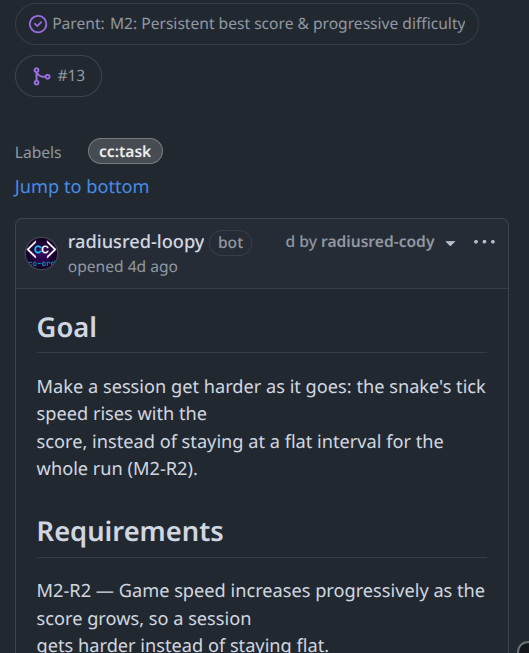
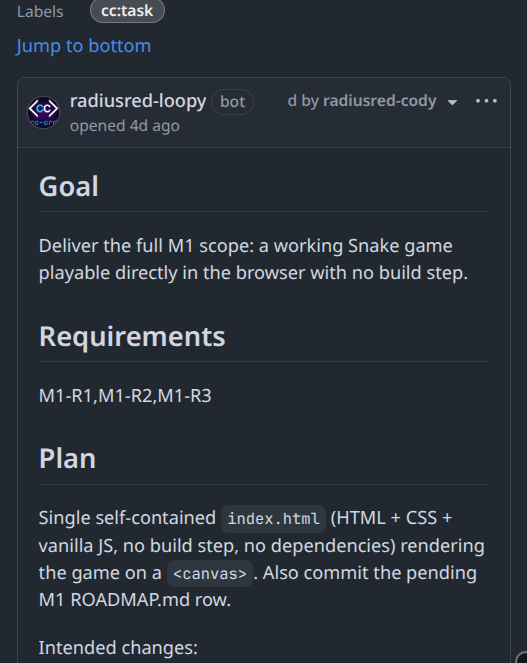
style: ease the step grabs and run the fade to the description; retake task (#4)
The task grab is retaken with the Plan heading in frame (527x663) and
re-anchored on it at 64%. The image filter eases from saturate(0.35)
contrast(0.75) brightness(0.85) to saturate(0.7) contrast(0.9)
brightness(0.9) so each grab is recognisable, and the fade runs lower:
15% ink at the top, 60% at 5.6rem, 85% at 7.2rem where the heading
starts, solid by 8.8rem where the description begins (4.2, 5.6 and 7.2rem
on phones). The heading sits over the tail of the fade at 9:1 or better;
the description keeps its plain-ink contrast. The test pins the new
filter and the solid stop. Third refinement of change 10 on #4.

diff --git a/docs/stylesheets/extra.css b/docs/stylesheets/extra.css
@@ -430,11 +430,12 @@ h1,h2,h3 {
    strip visible above the fade shows the grab's distinguishing feature at
    any card width (background-position percentages would land differently
    on desktop and phone, since the overflow differs). Saturation and
-   contrast are pulled down; ::after lays a vertical gradient over it,
-   mostly clear at the top and the solid ink ground by the point the
-   heading starts, so the wording sits on a plain surface and the grab
-   reads as a hint above it. Light type in both schemes: body text on the
-   ink is 16:1, the muted lines 9:1. The band is shorter on phones so four
+   contrast are eased a little so the grab stays recognisable; ::after lays
+   a vertical gradient over it, mostly clear at the top and the solid ink
+   ground by the point the description paragraph starts. The heading (bold,
+   with the accent number and glyph) sits over the tail of the fade, at 85%
+   ink or more (9:1 at worst); the description sits on plain ink (16:1, the
+   muted lines 9:1) in both schemes. The band is shorter on phones so four
    cards do not run long. */
 .cc-step--bg {
   --md-typeset-color: #f2eefaf2;
@@ -457,7 +458,7 @@ h1,h2,h3 {
   width: 100%;
   aspect-ratio: var(--cc-step-bg-ratio, 1);
   background: var(--cc-step-bg, none) center top / 100% auto no-repeat;
-  filter: saturate(0.35) contrast(0.75) brightness(0.85);
+  filter: saturate(0.7) contrast(0.9) brightness(0.9);
   transform: translateY(calc(-1 * var(--cc-step-bg-y, 0%)));
 }
 
@@ -465,7 +466,7 @@ h1,h2,h3 {
   content: "";
   position: absolute;
   inset: 0;
-  background: linear-gradient(180deg, #0a001226 0, #0a0012b3 4.4rem, var(--cc-ink) 6.8rem);
+  background: linear-gradient(180deg, #0a001226 0, #0a001299 5.6rem, #0a0012d9 7.2rem, var(--cc-ink) 8.8rem);
 }
 
 .cc-step--bg > * {
@@ -478,7 +479,7 @@ h1,h2,h3 {
     padding-top: 5.6rem;
   }
   .cc-step--bg::after {
-    background: linear-gradient(180deg, #0a001226 0, #0a0012b3 3.4rem, var(--cc-ink) 5.2rem);
+    background: linear-gradient(180deg, #0a001226 0, #0a001299 4.2rem, #0a0012d9 5.6rem, var(--cc-ink) 7.2rem);
   }
 }
 

diff --git a/tests/test_site_build.py b/tests/test_site_build.py
@@ -29,9 +29,9 @@ STEP_CODE_MAX = 42
 CREW_ROLES = ("implementer", "reviewer", "qa", "doc-synthesizer", "coordinator")
 # One grab per How-it-works step, in order, with the anchor (a share of the
 # image's height) that puts its distinguishing feature in the strip above
-# the fade: the Requirements list, the parent-issue and branch pills, the
-# Merged badge and merged-by line, the document title.
-STEP_IMAGES = (("milestone", "62%"), ("task", "2%"), ("pr", "21%"), ("record", "0%"))
+# the fade: the Requirements list, the Plan heading, the Merged badge and
+# merged-by line, the document title.
+STEP_IMAGES = (("milestone", "62%"), ("task", "64%"), ("pr", "21%"), ("record", "0%"))
 CREW_MEMBER_NAMES = ("cody", "checky", "testy", "wordy")  # Radius Red's crew, not the framework's
 INSTALL_COMMANDS = (
     "gh extension install radiusred/gh-codecrew",
@@ -176,10 +176,10 @@ def test_how_it_works_leads_with_the_three_moments_and_marks_each_speaker(home: 
 def test_each_step_carries_its_muted_screen_grab(css: str, home: str, site: Path):
     image = rule(css, ".cc-step--bg::before")
     assert "aspect-ratio: var(--cc-step-bg-ratio" in image and "translateY(calc(-1 * var(--cc-step-bg-y" in image
-    assert "filter: saturate(" in image  # muted
+    assert "filter: saturate(0.7) contrast(0.9) brightness(0.9)" in image  # eased so the grab is recognisable
     fade = rule(css, ".cc-step--bg::after")
-    assert "linear-gradient(180deg, #0a001226 0" in fade and "var(--cc-ink) 6.8rem" in fade  # clear at the top, solid ground by the heading
-    assert "padding: 7.2rem" in rule(css, ".cc-step--bg")  # the heading starts below the solid point
+    assert "linear-gradient(180deg, #0a001226 0" in fade and "var(--cc-ink) 8.8rem" in fade  # clear at the top, solid before the description
+    assert "padding: 7.2rem" in rule(css, ".cc-step--bg")  # the heading sits over the tail of the fade
     openings = re.findall(
         r'<div class="cc-step cc-step--bg" style="--cc-step-bg: url\(([^)]+)\); --cc-step-bg-ratio: \d+ / \d+; --cc-step-bg-y: (\d+%)">',
         section(home, "cc-how"),

diff --git a/docs/index.md b/docs/index.md
@@ -45,7 +45,7 @@ A GitHub issue, with its requirements written into it.
 <p class="cc-step__line cc-step__you" markdown="span">:lucide-user: Say what you want built.</p>
 
 </div>
-<div class="cc-step cc-step--bg" style="--cc-step-bg: url(../assets/images/steps/task.webp); --cc-step-bg-ratio: 529 / 653; --cc-step-bg-y: 2%" markdown>
+<div class="cc-step cc-step--bg" style="--cc-step-bg: url(../assets/images/steps/task.webp); --cc-step-bg-ratio: 527 / 663; --cc-step-bg-y: 64%" markdown>
 
 ### :lucide-list-checks: Task
 
